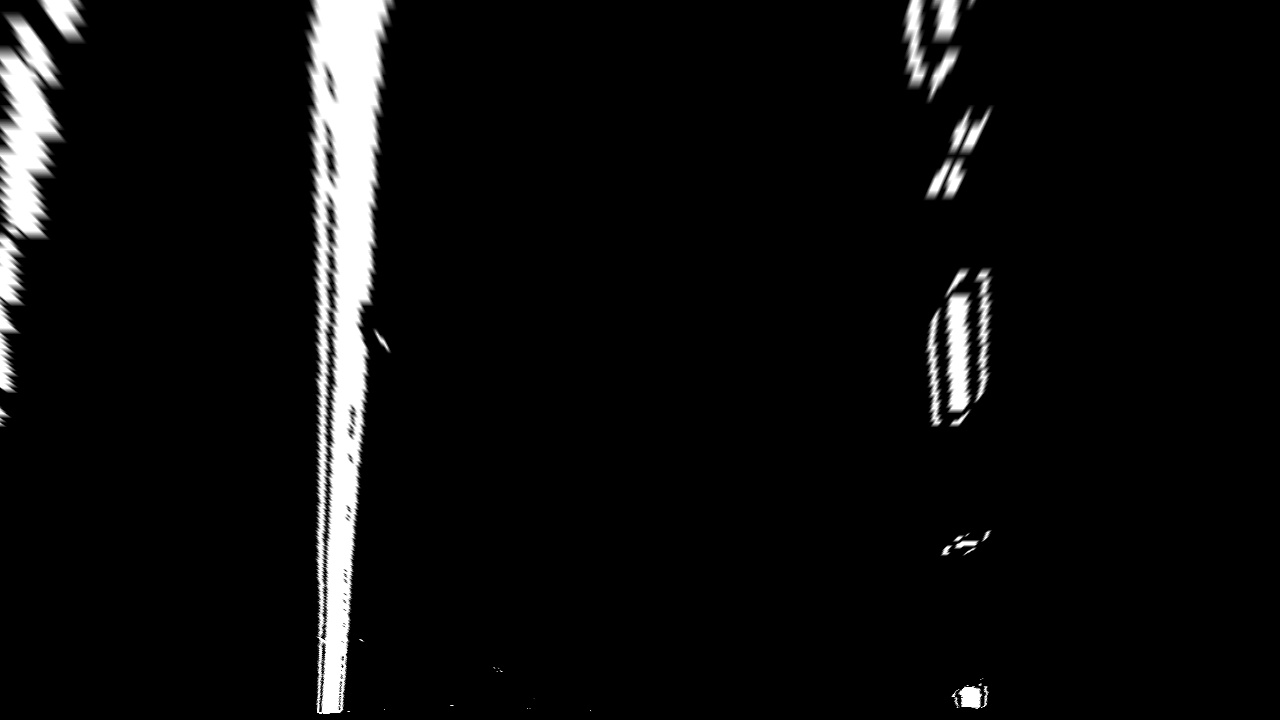
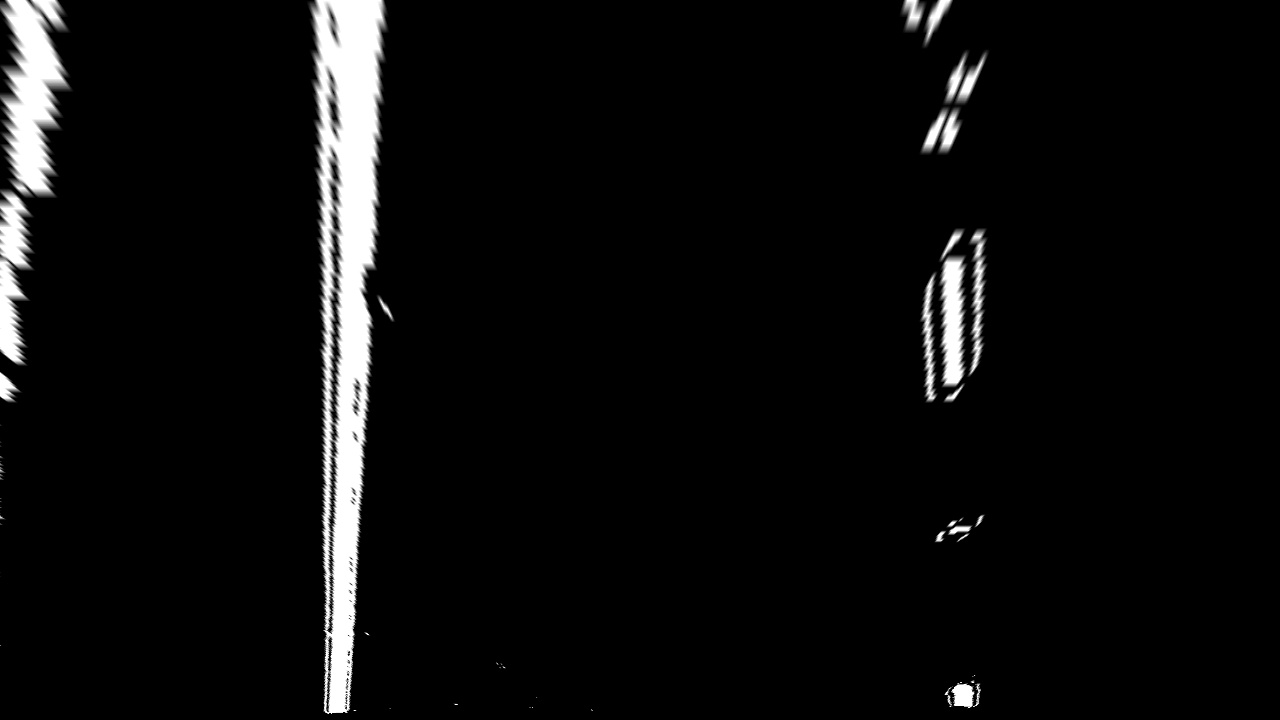
Uses line slope to compute perspective transformation

diff --git a/img_processor.py b/img_processor.py
@@ -9,15 +9,25 @@ import camera_calibration as cc
 class ImageProcessor():
 
     def __init__(self, calibration_data_file):
+
+        # Camera calibration data
         calibration_data = cc.load_calibration_data(file_path = calibration_data_file)
         self.mtx = calibration_data['mtx']
         self.dist = calibration_data['dist']
+
+        # Gradient and color thresholding parameters
         self.sobel_kernel = 15
-        self.x_thresh = [20, 100]
-        self.y_thresh = [35, 100]
-        self.r_thresh = [200, 255]
-        self.s_thresh = [100, 255]
-        self.l_thresh = [200, 255]
+        self.x_thresh = [20, 100] # Sobel x threshold
+        self.y_thresh = [35, 100] # Sobel y threshold
+        self.r_thresh = [200, 255] # RGB, Red channel threshold
+        self.s_thresh = [100, 255] # HSL, S channel threshold
+        self.l_thresh = [200, 255] # HSL, L channel threshold
+
+        # Perspective transformation parameters
+        self.persp_src_left_line = (-0.66, 840) # Slope and intercept for left line
+        self.persp_src_right_line = (0.66, -5) # Slope and intercept for left line
+        self.persp_src_top_pct = 0.65 # Percentage from the top
+        self.persp_dst_x_pct = 0.25 # Destination offset percent
 
     def _sobel(self, img, orient = 'x', sobel_kernel = 3):
         gray_img = cv2.cvtColor(img, cv2.COLOR_RGB2GRAY)
@@ -81,33 +91,33 @@ class ImageProcessor():
 
         return result
 
+    def _unwarp_coordinates(self, img):
+
+        img_shape = img.shape[1::-1]
+
+        src_y_offset = img_shape[1] * self.persp_src_top_pct
+        left_slope, left_intercept = self.persp_src_left_line
+        right_slope, right_intercept = self.persp_src_right_line
+        
+        src = np.float32([[(src_y_offset - left_intercept) / left_slope, src_y_offset],
+                          [(src_y_offset - right_intercept) / right_slope, src_y_offset],
+                          [(img_shape[1] - right_intercept) / right_slope, img_shape[1]],
+                          [(img_shape[1] - left_intercept) / left_slope, img_shape[1]]])
+
+        dst_x_offset = img_shape[0] * self.persp_dst_x_pct
+
+        dst = np.float32([[dst_x_offset, 0], 
+                          [img_shape[0] - dst_x_offset, 0], 
+                          [img_shape[0] - dst_x_offset, img_shape[1]],
+                          [dst_x_offset, img_shape[1]]])
+        
+        return src, dst
+
     def unwarp_image(self, img):
 
         img_shape = img.shape[1::-1]
 
-        x = img_shape[0] # 1280
-        y = img_shape[1] # 720
-
-        src_x_top_pct = 0.445
-        src_y_top_pct = 0.645
-
-        src_x_bot_pct = 0.85
-        src_y_bot_pct = 0
-
-        # top left, top right, bottom right, bottom left
-        src = np.float32([[x * src_x_top_pct, y * src_y_top_pct], 
-                          [x * (1 - src_x_top_pct), y * src_y_top_pct],
-                          [x * src_x_bot_pct, img_shape[1] * (1-src_y_bot_pct)], 
-                          [x * (1 - src_x_bot_pct), img_shape[1] * (1-src_y_bot_pct)]])
-
-        dst_x_pct = 0.25
-        dst_y_pct = 0
-
-        # top left, top right, bottom right, bottom left
-        dst = np.float32([[x * dst_x_pct, y * dst_y_pct], 
-                          [x * (1 - dst_x_pct), y * dst_y_pct], 
-                          [x * (1 - dst_x_pct), y * (1 - dst_y_pct)],
-                          [x * dst_x_pct, y * (1 - dst_y_pct)]])
+        src, dst = self._unwarp_coordinates(img)
 
         # Given src and dst points, calculate the perspective transform matrix
         trans_m = cv2.getPerspectiveTransform(src, dst)
@@ -175,5 +185,19 @@ if __name__ == '__main__':
     for img_file in img_files:
         img = cv2.imread(img_file)
         processed_img = imgProcessor.process_image(img)
-        out_file = os.path.join(args.output, os.path.split(img_file)[1][:-4] + '_processed.jpg')
-        cv2.imwrite(out_file, processed_img)
+       
+        out_file_prefix = os.path.join(args.output, os.path.split(img_file)[1][:-4])
+        cv2.imwrite(out_file_prefix + '_processed.jpg', processed_img)
+
+        src, dst = imgProcessor._unwarp_coordinates(img)
+        dst = np.array(dst, np.int32)
+        src = np.array(src, np.int32)
+
+        processed_src = imgProcessor.undistort_image(img)
+        processed_src = cv2.polylines(processed_src, [src],True,(0,0,255), 2)
+        processed_dst = cv2.polylines(processed_img, [dst],True,(0,0,255), 2)
+        
+        cv2.imwrite(out_file_prefix + '_persp_src.jpg', processed_src)
+        cv2.imwrite(out_file_prefix + '_persp_dst.jpg', processed_dst)
+
+        
